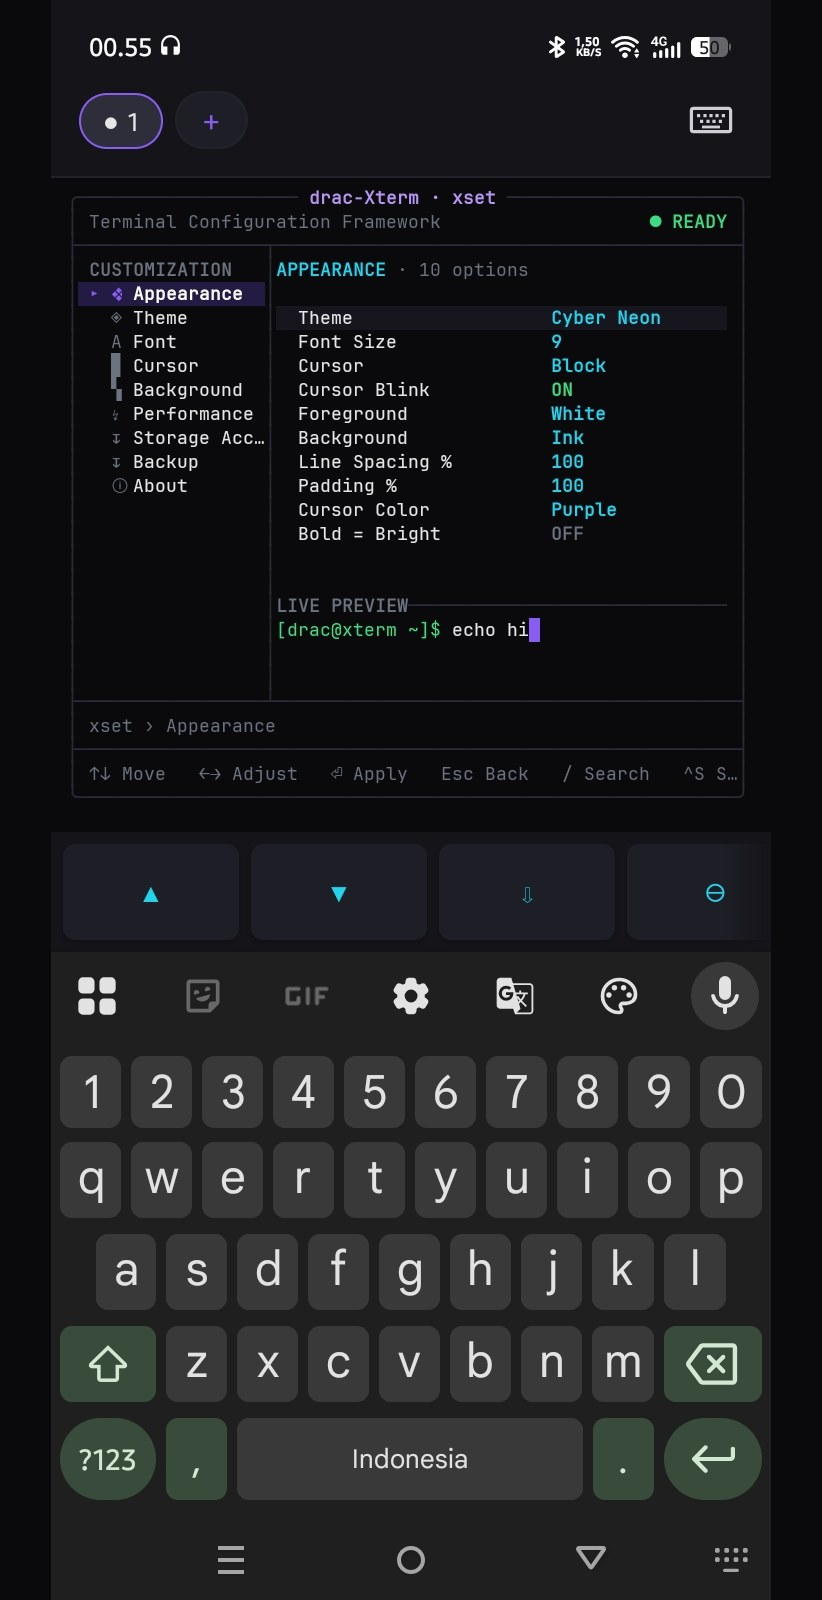
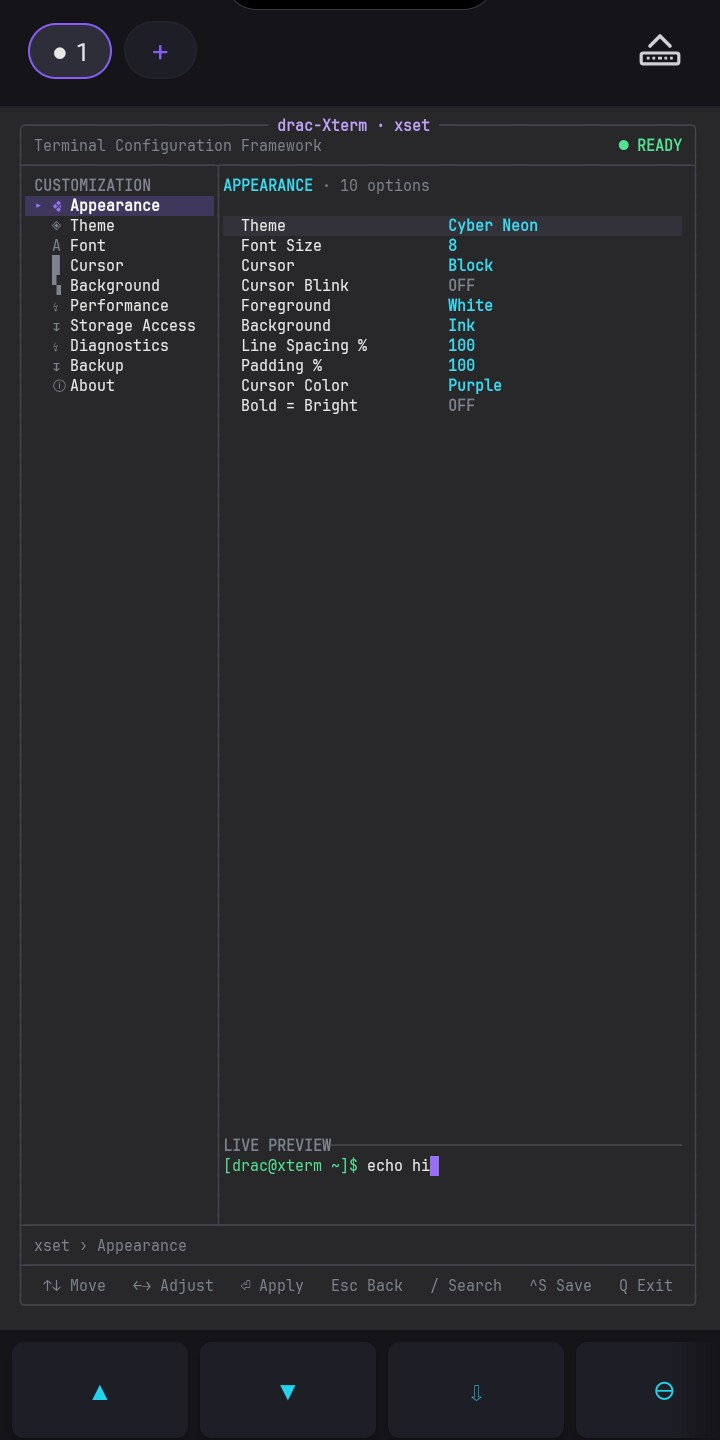
Drop the screenshot provenance note and refresh the store images
The README paragraph described where the pictures were taken rather than what
the app does; what matters is that they match the app as it ships today. The
store images were older than the current settings pages, so they are retaken on
a phone running 1.0.6 with Kali: the editor, the distro, the settings pages, and
the two storage views. The About page is replaced with Diagnostics, which shows
the same kind of information without a personal email address in the picture.

diff --git a/README.md b/README.md
@@ -9,11 +9,6 @@ root, akun, atau layanan apa pun.
 
 ## Screenshot
 
-Diambil dari APK release 1.0.5 di WayDroid (Android 13, x86_64), layar logis
-1080x2400, dengan Debian 13 amd64 yang dipasang dari katalog. Keterangan tiap
-gambar ada di
-[`Screenshot/deskripsi-screenshot-01-08-dracxterm.txt`](Screenshot/deskripsi-screenshot-01-08-dracxterm.txt).
-
 | | |
 |---|---|
 | ![Pemilihan distro](Screenshot/01-pilih-distro-dracxterm.jpg) | ![Pemasangan distro](Screenshot/02-pasang-distro-dracxterm.jpg) |
@@ -23,7 +18,7 @@ gambar ada di
 | ![Superuser dan paket .deb](Screenshot/05-superuser-deb-dracxterm.jpg) | ![htop di workspace kedua](Screenshot/06-htop-multi-workspace-dracxterm.jpg) |
 | 5. `sudo -i` menjadi root, lalu paket `.deb` diunduh, dipasang dengan `dpkg -i`, dijalankan, dan dihapus. `exit` kembali ke user biasa. | 6. `htop` layar penuh di workspace kedua. Tiap workspace punya shell dan PTY sendiri. |
 | ![xset Appearance](Screenshot/07-xset-appearance-dracxterm.jpg) | ![xset Diagnostics](Screenshot/08-xset-diagnostics-vhdp-dracxterm.jpg) |
-| 7. `xset`, pengaturan yang digambar di dalam terminal. Halaman Appearance merangkum tema, font, kursor, dan padding. | 8. Halaman Diagnostics, baru di 1.0.5: versi libvhdp, backend yang menjalankan sesi, dan hasil probe aktif. |
+| 7. `xset`, pengaturan yang digambar di dalam terminal. Halaman Appearance merangkum tema, font, kursor, dan padding. | 8. Halaman Diagnostics: mesin yang sedang menjalankan sesi Linux, dan tombol untuk menjalankan pemeriksaan. |
 
 ## Yang baru di 1.0.6
 
